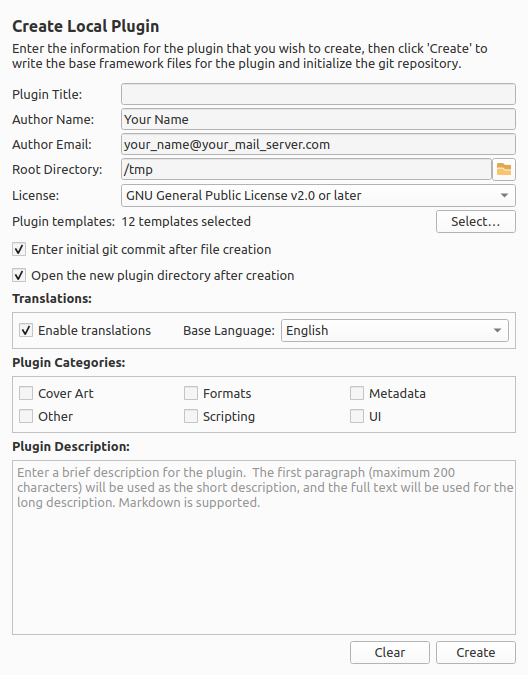
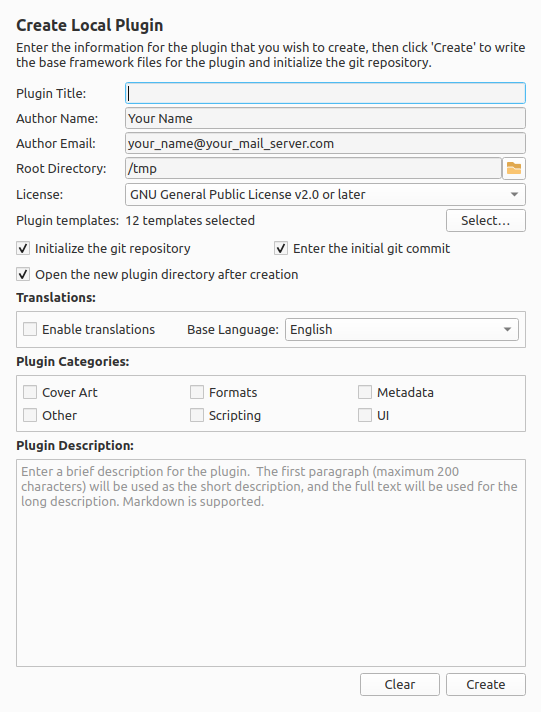
Document changes to the plugin:
- ability to avoid initializing the plugin git repository
- plugin settings configured for managment through optio profiles

Changed region(s): [[0.0, 0.0, 1.0, 0.9956], [0.9697, 0.56, 1.0, 0.5911]]

diff --git a/create_plugin/user_guide.rst b/create_plugin/user_guide.rst
@@ -4,13 +4,13 @@ Create Local Plugin
 Overview
 ---------
 
-This plugin assists in the creation of a local plugin by preparing the plugin framework files and git repository. Once installed and activated, it adds an option page called "Create Local Plugin" under the "Plugins" section. This is how the plugin's functionality is accessed.
+This plugin assists in the creation of a local plugin by preparing the plugin framework files and optionally initializing the git repository. Once installed and activated, it adds an option page called "Create Local Plugin" under the "Plugins" section. This is how the plugin's functionality is accessed.
 
 
 What it Does
 ----------------
 
-It gathers some information from the user, and then writes the basic framework files to the specified directory and initializes the git repository.
+It gathers some information from the user, and then writes the basic framework files to the specified directory and optionally initializes the git repository.
 
 .. image:: screenshot.png
    :align: center
@@ -28,7 +28,8 @@ Information input includes:
 - **Plugin Categories**: The categories to which the plugin belongs. This is used in the plugin's metadata, and is how the plugin will be categorized on the Picard website and in the Picard plugins registry. Multiple categories can be selected for a plugin, and the categories are not mutually exclusive. If no categories are selected, then the plugin will be uncategorized. See the "Plugin Categories" section below for more details.
 - **Plugin Description**: A brief description of the plugin's functionality (2000 characters or less), and may contain markdown. This is used in the plugin's metadata, and is also added to the ``README.md`` file for the plugin. The plugin's short description is also added to the plugin's metadata, and is used in the plugin listing on the Picard website. The short description is generated automatically by taking the first paragraph of the plugin description, up to a maximum of 200 characters.
 - **Multi-language Support**: This option allows you to create a plugin with multi-language support, which will add the necessary files and structure for supporting translations of the plugin's metadata and user interface. This option is recommended, because it allows the plugin to be more easily translated in the future, and also provides a framework for handling translations of any user interface elements that the plugin may have. This option does not add any additional steps to the plugin creation process, and does not require any additional information from the user other than selecting the base language for the plugin. It will provide some additional files and structure to the plugin framework that is created.
-- **Create Initial Commit**: This option determines whether or not to create an initial commit to the git repository for the plugin. The default is to create an initial commit. The initial commit will be made with the generated plugin files, and the commit message will be "Initial commit". The author of the commit will be set to the name and email address provided in the plugin information. Regardless of the setting of this option, a git repository will be initialized in the target directory.
+- **Initialize the git repository**: This option determines whether or not to initialize a git repository for the plugin. The default is to not initialize a git repository. Initializing a git repository will create a new git repository in the plugin directory, and add a ``.gitignore`` file with some common files and directories ignored for plugin development. It will also allow you to make commits to the repository to track changes to the plugin files, and push the repository to a remote hosting service such as GitHub if desired.
+- **Create Initial Commit**: This option determines whether or not to create an initial commit to the git repository for the plugin. The default is to not create an initial commit. The initial commit will be made with the generated plugin files, and the commit message will be "Initial commit". The author of the commit will be set to the name and email address provided in the plugin information. Note that this option is not available if the "Initialize the git repository" option is not enabled.
 - **Open Plugin Directory**: This option determines whether or not to open the directory of the newly created plugin in your system file browser after the plugin has been created. This allows you to inspect the plugin files that have been generated, and edit the files to customize the plugin as required.
 
 Once you have entered all of the required information and selected the desired options, you can click the :guilabel:`Create` button to create the plugin framework files and git repository in the plugin-specific directory under the specified root directory. The system first checks that the target directory exists or can be created, and that it is empty. You will then be prompted to confirm whether or not you want to proceed with creating the plugin files.
@@ -37,9 +38,9 @@ Once you have entered all of the required information and selected the desired o
 
    It is recommended that you review the information entered and confirm that it is correct before proceeding. This is because the plugin files will be generated and the git repository will be initialized based on the information you have provided. If you need to make any changes, you can click :guilabel:`No` to return to the plugin creation form, and make any necessary changes before confirming again. All items including plugin title, author information, and description can be edited in the generated files later if necessary.
 
-When you have confirmed, the plugin will generate the necessary files for the plugin framework, including an ``__init__.py`` file, a ``MANIFEST.toml`` file with the plugin metadata, and a ``README.md`` file with the plugin description. If multi-language support was selected, then additional files and structure will be created for handling translations. If an options page and settings template was selected, then additional user interface files will be created. A git repository with a ``.gitignore`` file will also be initialized in the target directory. If the option to create an initial commit was selected, then an initial commit will be made with the generated plugin files.
+When you have confirmed, the plugin will generate the necessary files for the plugin framework, including an ``__init__.py`` file, a ``MANIFEST.toml`` file with the plugin metadata, and a ``README.md`` file with the plugin description. If multi-language support was selected, then additional files and structure will be created for handling translations. If an options page and settings template was selected, then additional user interface files will be created. A git repository with a ``.gitignore`` file will also be initialized in the target directory if that option was enabled. If the option to create an initial commit was selected, then an initial commit will be made with the generated plugin files.
 
-Once the plugin has been created, you can then open the plugin directory in your file browser or terminal to view the generated files and git repository. You can then customize the generated plugin files as needed to implement the desired functionality for your plugin. You can also use the initialized git repository to manage the version control for your plugin development.
+Once the plugin has been created, you can then open the plugin directory in your file browser or terminal to view the generated files and git repository. You can then customize the generated plugin files as needed to implement the desired functionality for your plugin. You can also use the initialized git repository, if enabled, to manage the version control for your plugin development.
 
 Plugin Categories
 ++++++++++++++++++++
@@ -66,7 +67,7 @@ The available example code templates that can be included in the generated plugi
 
 - **Album/Track metadata processing**: Code template for the MusicBrainz metadata post-processor hook, including both Album and Track processing examples.
 - **Menu item**: Code template for the hook used to add right-click context menu actions for albums, tracks and files in 'Unmatched Files', 'Clusters' and the 'ClusterList' (parent folder of Clusters). Actions can also be added to the main Picard menu bar.
-- **Options page and settings**: Code template for adding plugin-specific user settings and an options page for managing the settings.
+- **Options page and settings**: Code template for adding plugin-specific user settings and an options page for managing the settings. This includes example code for registering options, and saving and loading the settings. It also includes example code for adding the settings to the Option Profiles page for managing the plugin settings as part of an option profile.
 - **Album post-removal processing**: Code template for the hook called after a file has been removed from a track (on the right-hand pane of Picard).
 - **File post-load processing**: Code template for the hook called after a file has been loaded into Picard. This could for example be used to load additional data for a file.
 - **File post add to track processing**: Code template for the hook called after a file has been added to a track (on the right-hand pane of Picard).
@@ -89,6 +90,7 @@ Once you have created a plugin, the following settings are remembered for the ne
 - License selected
 - Plugin Templates selected
 - Plugin Categories selected
+- Whether or not to initialize a git repository for the plugin
 - Whether or not to create an initial commit to the git repository
 - Whether or not to create a plugin with multi-language support, and the base language for the plugin if multi-language support is enabled.
 - Whether or not to open the plugin directory in your file browser automatically when a plugin has been created.
